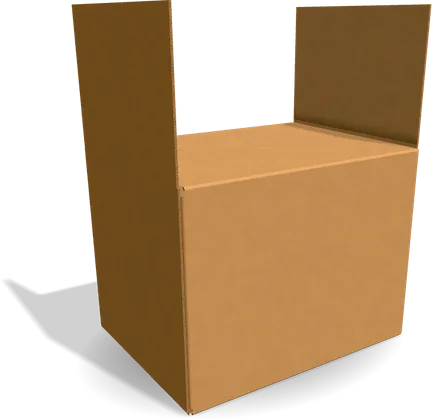
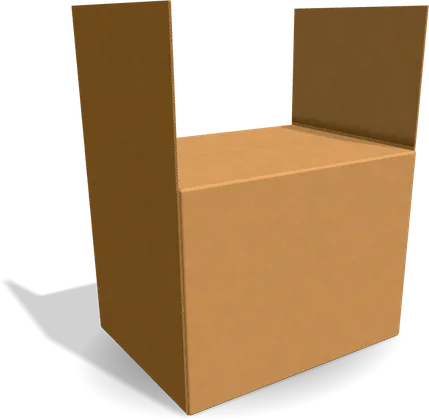
Cut the split top's outer flaps a board longer so they close
The outer flap pairs that meet in the middle (the top pair on the end
walls or the long walls, and the bottom pair on the long walls) fold over
the inner flaps, which takes up about a board, so cut to half the wall
they left a gap of about two boards between their tips. They are now cut
a board longer and close like the inner pairs; that is also their new
limit, so their tips never run into each other.

Saved designs move to layout 3: sheet artwork keeps the walls' edges, so
every wall prints exactly as before and each flap's artwork stays put
from its crease. A design that already set its flap lengths keeps them.

Claude-Session: https://claude.ai/code/session_01AosEoHGp9fRkJBNR4UPrD4

diff --git a/src/lib/packaging/parametric/definitions/split-top.ts b/src/lib/packaging/parametric/definitions/split-top.ts
@@ -47,11 +47,13 @@ export const splitTopDefinition = {
     ['jointEnd', 'depth + t / 2'],
     ['wallHeight', 'height + 2 * t'],
     // Flaps are half the end wall long so the long walls' flaps meet; outer
-    // flaps on the end walls are half the long wall and meet too. Each pair
-    // is a size the studio lets people change (see adjustable).
-    ['topLongFlap', 'end / 2'],
-    ['topEndFlap', 'outerTopIsEnd ? long / 2 : end / 2'],
-    ['bottomLongFlap', 'end / 2'],
+    // flaps on the end walls are half the long wall and meet too. An outer
+    // pair folds over the inner flaps, which takes up about a board, so it is
+    // cut a board longer to meet in the middle. Each pair is a size the
+    // studio lets people change (see adjustable).
+    ['topLongFlap', 'outerTopIsEnd ? end / 2 : end / 2 + t'],
+    ['topEndFlap', 'outerTopIsEnd ? long / 2 + t : end / 2'],
+    ['bottomLongFlap', 'end / 2 + t'],
     ['bottomEndFlap', 'end / 2'],
     ['top', 'max(topLongFlap, topEndFlap)'],
     ['bottom', 'top + wallHeight'],
@@ -61,16 +63,14 @@ export const splitTopDefinition = {
     ['xLeft', 'xBack + long'],
   ],
   // Sizes the studio lets people change, a pair of opposite flaps at a time.
-  // An outer pair that meets in the middle may be cut up to a board longer:
-  // folding over the inner flaps takes up about that much, so it closes the
-  // gap left between their tips. An inner pair that meets stays as it is at
-  // most, so its tips never run into each other; one that does not meet may
-  // grow until it does.
+  // A pair that meets in the middle stays as it is at most, so its tips never
+  // run into each other; an inner pair that does not meet may grow until it
+  // does.
   adjustable: [
     { key: 'joint', label: 'Glue joint', min: 'max(8, slot)', max: 'max(8, min(60, depth))' },
-    { key: 'topLongFlap', label: 'Top front & back flaps', min: 'min(default, max(10, 2 * slot))', max: 'default + (outerTopIsEnd ? 0 : t)' },
-    { key: 'topEndFlap', label: 'Top left & right flaps', min: 'min(default, max(10, 2 * slot))', max: 'outerTopIsEnd ? default + t : max(default, long / 2)' },
-    { key: 'bottomLongFlap', label: 'Bottom front & back flaps', min: 'min(default, max(10, 2 * slot))', max: 'default + t' },
+    { key: 'topLongFlap', label: 'Top front & back flaps', min: 'min(default, max(10, 2 * slot))', max: 'default' },
+    { key: 'topEndFlap', label: 'Top left & right flaps', min: 'min(default, max(10, 2 * slot))', max: 'outerTopIsEnd ? default : max(default, long / 2)' },
+    { key: 'bottomLongFlap', label: 'Bottom front & back flaps', min: 'min(default, max(10, 2 * slot))', max: 'default' },
     { key: 'bottomEndFlap', label: 'Bottom left & right flaps', min: 'min(default, max(10, 2 * slot))', max: 'max(default, long / 2)' },
   ],
   panels: [

diff --git a/src/lib/packaging/layout-migration.ts b/src/lib/packaging/layout-migration.ts
@@ -4,7 +4,7 @@ import { reverseTuckSheet } from './templates/reverse-tuck/export';
 import { baseBoxSheetV1 } from './templates/base-box/sheet-v1';
 import { baseBoxSheet } from './templates/base-box/geometry';
 import { splitTopSheetV1 } from './templates/split-top/sheet-v1';
-import { splitTopSheet } from './templates/split-top/geometry';
+import { splitTopSheet, splitTopSizes } from './templates/split-top/geometry';
 import { pizzaBoxSheetV2 } from './templates/pizza-box/sheet-v2';
 import { pizzaBoxSheet } from './templates/pizza-box/geometry';
 import type { ArtworkByPanel, ArtworkPlacement } from './artwork';
@@ -56,6 +56,19 @@ const STEPS: Record<string, Step[]> = {
       const moved = moveSheetLayers(state, s => splitTopSheetV1(s.dimensions, side), s => splitTopSheet(s.dimensions, side), ['front', 'right', 'back', 'left']);
       return side === 'side_b' ? { ...moved, artworkByPanel: renamePanels(moved.artworkByPanel, { 'Top Left': 'Top Front', 'Top Right': 'Top Back' }) } : moved;
     },
+    // 3: the flap pairs that meet in the middle (the outer pairs) are cut a
+    // board longer so they close; sheet layers move to keep the walls' edges.
+    // The old grid is the new one with those flaps at their old lengths,
+    // unless the design already set them.
+    state => {
+      const side = state.splitTopHingeSide ?? 'side_a';
+      return moveSheetLayers(
+        state,
+        s => splitTopSheet({ ...s.dimensions, adjustments: { ...splitTopFlapsV2(s.dimensions, side), ...s.dimensions.adjustments } }, side),
+        s => splitTopSheet(s.dimensions, side),
+        ['front', 'right', 'back', 'left'],
+      );
+    },
   ],
   'pizza-box': [
     // 2: artwork placed on the front wall, lid or lid front alone is turned to
@@ -86,6 +99,14 @@ export function migrateStudioLayoutTo(state: StudioProjectState, target: number)
   let result = state;
   for (; version < last; version++) result = steps[version - 1](result);
   return { ...result, layoutVersion: version };
+}
+
+/** The split top's outer flap lengths before layout 3: half the wall they reach across. */
+function splitTopFlapsV2(dimensions: StudioProjectState['dimensions'], side: 'side_a' | 'side_b'): Record<string, number> {
+  const { long, end } = splitTopSizes(dimensions, side);
+  return side === 'side_a'
+    ? { topEndFlap: long / 2, bottomLongFlap: end / 2 }
+    : { topLongFlap: end / 2, bottomLongFlap: end / 2 };
 }
 
 type Point = { x: number; y: number };
